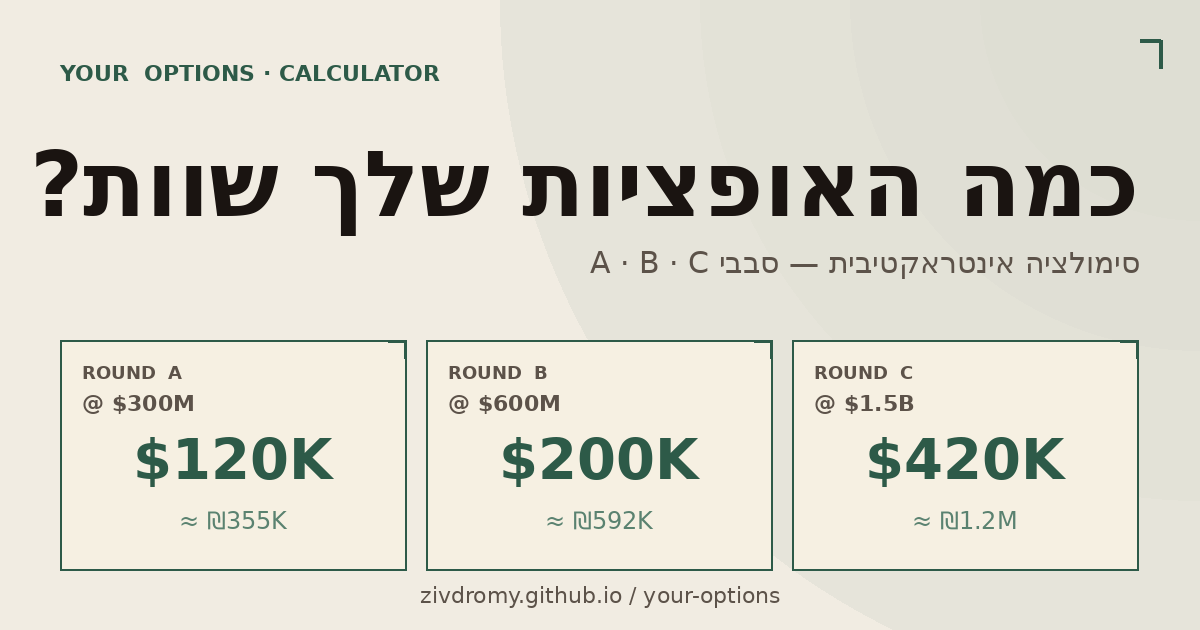
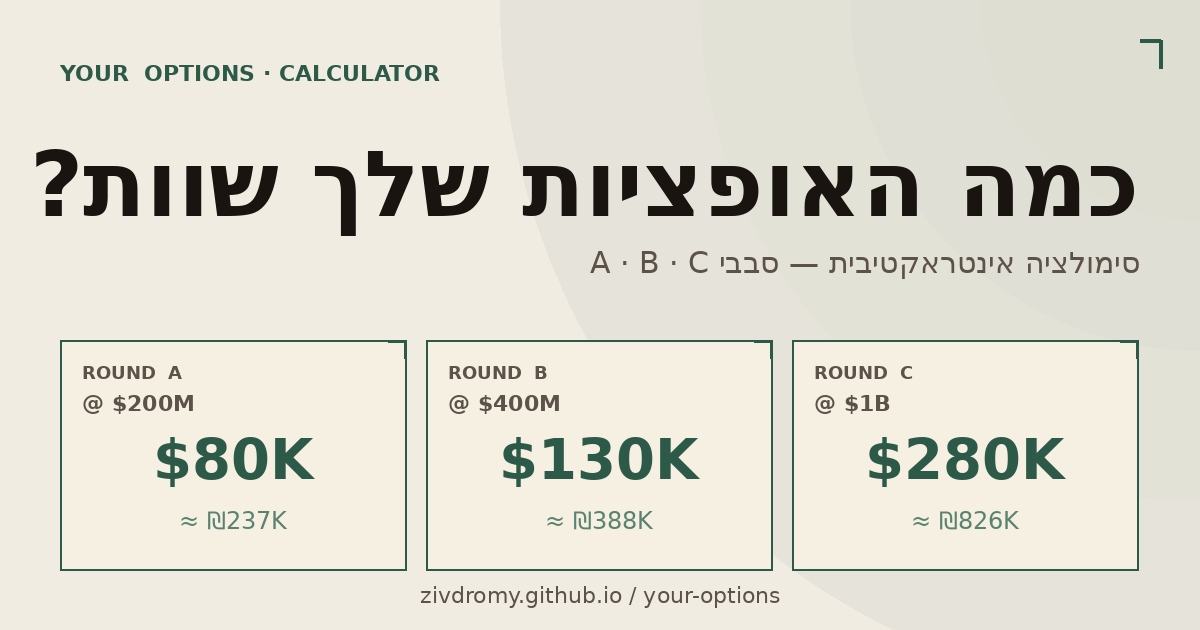
Lower default valuations ($200M/$400M/$1B), add prominent disclaimer

diff --git a/index.html b/index.html
@@ -367,6 +367,42 @@ input[type="range"]::-moz-range-thumb {
   color: var(--ink);
 }
 
+.disclaimer {
+  background: var(--bg-card);
+  border-right: 3px solid var(--accent);
+  border-top: 1px solid var(--line);
+  border-bottom: 1px solid var(--line);
+  border-left: 1px solid var(--line);
+  padding: 1rem 1.1rem;
+  margin-bottom: 1.75rem;
+  font-size: 0.82rem;
+  line-height: 1.65;
+  color: var(--ink-2);
+}
+
+.disclaimer-label {
+  display: block;
+  font-size: 0.7rem;
+  letter-spacing: 0.18em;
+  text-transform: uppercase;
+  color: var(--accent);
+  font-weight: 700;
+  margin-bottom: 0.5rem;
+}
+
+.disclaimer p {
+  margin: 0;
+}
+
+.disclaimer p + p {
+  margin-top: 0.5rem;
+}
+
+.disclaimer strong {
+  color: var(--ink);
+  font-weight: 700;
+}
+
 @media (max-width: 380px) {
   h1 { font-size: 1.85rem; }
   .container { padding: 1.25rem 1rem 2rem; }
@@ -406,6 +442,12 @@ header { animation-delay: 0.05s; }
     <h1>כמה האופציות שלך<br><em>שוות</em>?</h1>
   </header>
 
+  <div class="disclaimer">
+    <span class="disclaimer-label">לפני שמתחילים</span>
+    <p>זהו <strong>כלי לחקירת תרחישים</strong>, לא תחזית. המטרה היא לתת תחושה לטווח האפשרי של שווי האופציות שלך לאורך מסלול גיוס סטנדרטי — לא להבטיח תוצאה.</p>
+    <p>בפועל יש המון גורמים שמשפיעים: חברות לא תמיד מגיעות לסבב הבא, ולואציות עולות ויורדות, דילול אמיתי כולל גם option pool refresh ו-anti-dilution, וקיימים liquidation preferences שמשנים מי מקבל מה באקזיט. <strong>אל תקבל החלטות חיים על בסיס המספרים כאן.</strong></p>
+  </div>
+
   <div class="section">
     <div class="section-head">
       <span class="section-num">i</span>
@@ -430,9 +472,9 @@ header { animation-delay: 0.05s; }
     <div class="slider-group">
       <div class="slider-header">
         <span class="slider-label">ולואציה בסבב A</span>
-        <span class="slider-value" id="val-a-out">$300M</span>
+        <span class="slider-value" id="val-a-out">$200M</span>
       </div>
-      <input type="range" id="val-a-slider" min="100" max="1000" step="10" value="300">
+      <input type="range" id="val-a-slider" min="100" max="1000" step="10" value="200">
     </div>
     <div class="slider-group">
       <div class="slider-header">
@@ -444,9 +486,9 @@ header { animation-delay: 0.05s; }
     <div class="slider-group">
       <div class="slider-header">
         <span class="slider-label">ולואציה בסבב B</span>
-        <span class="slider-value" id="val-b-out">$600M</span>
+        <span class="slider-value" id="val-b-out">$400M</span>
       </div>
-      <input type="range" id="val-b-slider" min="200" max="3000" step="25" value="600">
+      <input type="range" id="val-b-slider" min="200" max="3000" step="25" value="400">
     </div>
     <div class="slider-group">
       <div class="slider-header">
@@ -458,9 +500,9 @@ header { animation-delay: 0.05s; }
     <div class="slider-group">
       <div class="slider-header">
         <span class="slider-label">ולואציה בסבב C</span>
-        <span class="slider-value" id="val-c-out">$1.5B</span>
+        <span class="slider-value" id="val-c-out">$1B</span>
       </div>
-      <input type="range" id="val-c-slider" min="500" max="7000" step="50" value="1500">
+      <input type="range" id="val-c-slider" min="500" max="7000" step="50" value="1000">
     </div>
     <div class="slider-group">
       <div class="slider-header">